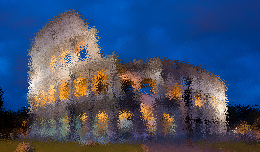
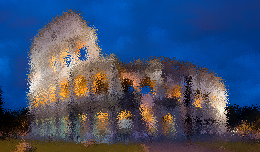
Updated examples. Tweaked dither output.

Changed region(s): [[0.0, 0.0526, 1.0, 1.0]]

diff --git a/src/main/scala/thirdparty/marvin/image/halftone/Dithering.java b/src/main/scala/thirdparty/marvin/image/halftone/Dithering.java
@@ -40,7 +40,7 @@ import thirdparty.marvin.image.grayScale.GrayScale;
  */
 public class Dithering extends MarvinAbstractImagePlugin {
 
-    private static final int DOT_AREA = 5;
+    private static final int DOT_AREA = 3;
     private static final int arrDither[] = {167, 200, 230, 216, 181,
             94, 72, 193, 242, 232,
             36, 52, 222, 167, 200,

diff --git a/README.md b/README.md
@@ -94,19 +94,23 @@ and either re-written them in Scala, wrapped them in Scala, or fixed bugs and mo
 | Bump       | ![](https://raw.github.com/sksamuel/scrimage/master/examples/filters/bird_bump.png) | ![](https://raw.github.com/sksamuel/scrimage/master/examples/filters/lanzarote_bump.png) |
 | Chrome       | ![](https://raw.github.com/sksamuel/scrimage/master/examples/filters/bird_chrome.png) | ![](https://raw.github.com/sksamuel/scrimage/master/examples/filters/lanzarote_chrome.png) |
 | Despeckle       | ![](https://raw.github.com/sksamuel/scrimage/master/examples/filters/bird_despeckle.png) | ![](https://raw.github.com/sksamuel/scrimage/master/examples/filters/lanzarote_despeckle.png) |
+| Dither       | ![](https://raw.github.com/sksamuel/scrimage/master/examples/filters/bird_dither.png) | ![](https://raw.github.com/sksamuel/scrimage/master/examples/filters/lanzarote_dither.png) |
 | Diffuse | ![](https://raw.github.com/sksamuel/scrimage/master/examples/filters/bird_diffuse_4.png) | ![](https://raw.github.com/sksamuel/scrimage/master/examples/filters/lanzarote_diffuse_4.png) |
 | Edge | ![](https://raw.github.com/sksamuel/scrimage/master/examples/filters/bird_edge.png) | ![](https://raw.github.com/sksamuel/scrimage/master/examples/filters/lanzarote_edge.png) |
 | Gamma | ![](https://raw.github.com/sksamuel/scrimage/master/examples/filters/bird_gamma_2.png) | ![](https://raw.github.com/sksamuel/scrimage/master/examples/filters/lanzarote_gamma_2.png) |
 | Gaussian Blur      | ![](https://raw.github.com/sksamuel/scrimage/master/examples/filters/bird_gaussian.png) | ![](https://raw.github.com/sksamuel/scrimage/master/examples/filters/lanzarote_gaussian.png) |
 | Invert      | ![](https://raw.github.com/sksamuel/scrimage/master/examples/filters/bird_invert.png) | ![](https://raw.github.com/sksamuel/scrimage/master/examples/filters/lanzarote_invert.png) |
 | Lens Blur      | ![](https://raw.github.com/sksamuel/scrimage/master/examples/filters/bird_lensblur.png) | ![](https://raw.github.com/sksamuel/scrimage/master/examples/filters/lanzarote_lensblur.png) |
+| Lens Flare      | ![](https://raw.github.com/sksamuel/scrimage/master/examples/filters/bird_lensflare.png) | ![](https://raw.github.com/sksamuel/scrimage/master/examples/filters/lanzarote_lensflare.png) |
 | Pointillze      | ![](https://raw.github.com/sksamuel/scrimage/master/examples/filters/bird_pointillize_square.png) | ![](https://raw.github.com/sksamuel/scrimage/master/examples/filters/lanzarote_pointillize_square.png) |
 | Quantize      | ![](https://raw.github.com/sksamuel/scrimage/master/examples/filters/bird_quantize_256.png) | ![](https://raw.github.com/sksamuel/scrimage/master/examples/filters/lanzarote_quantize_256.png) |
 | Rays      | ![](https://raw.github.com/sksamuel/scrimage/master/examples/filters/bird_rays.png) | ![](https://raw.github.com/sksamuel/scrimage/master/examples/filters/lanzarote_rays.png) |
 | Ripple      | ![](https://raw.github.com/sksamuel/scrimage/master/examples/filters/bird_ripple.png) | ![](https://raw.github.com/sksamuel/scrimage/master/examples/filters/lanzarote_ripple.png) |
+| Rylanders       | ![](https://raw.github.com/sksamuel/scrimage/master/examples/filters/bird_rylanders.png) | ![](https://raw.github.com/sksamuel/scrimage/master/examples/filters/lanzarote_rylanders.png) |
 | Smear       | ![](https://raw.github.com/sksamuel/scrimage/master/examples/filters/bird_smear_circles.png) | ![](https://raw.github.com/sksamuel/scrimage/master/examples/filters/lanzarote_smear_circles.png) |
 | Solarize       | ![](https://raw.github.com/sksamuel/scrimage/master/examples/filters/bird_solarize.png) | ![](https://raw.github.com/sksamuel/scrimage/master/examples/filters/lanzarote_solarize.png) |
 | Sparkle       | ![](https://raw.github.com/sksamuel/scrimage/master/examples/filters/bird_sparkle.png) | ![](https://raw.github.com/sksamuel/scrimage/master/examples/filters/lanzarote_sparkle.png) |
+| Television       | ![](https://raw.github.com/sksamuel/scrimage/master/examples/filters/bird_television.png) | ![](https://raw.github.com/sksamuel/scrimage/master/examples/filters/lanzarote_television.png) |
 | Threshold       | ![](https://raw.github.com/sksamuel/scrimage/master/examples/filters/bird_threshold_red_127.png) | ![](https://raw.github.com/sksamuel/scrimage/master/examples/filters/lanzarote_threshold_red_127.png) |
 | Unsharpen  | ![](https://raw.github.com/sksamuel/scrimage/master/examples/filters/bird_unsharp.png) | ![](https://raw.github.com/sksamuel/scrimage/master/examples/filters/lanzarote_unsharp.png) |
 
